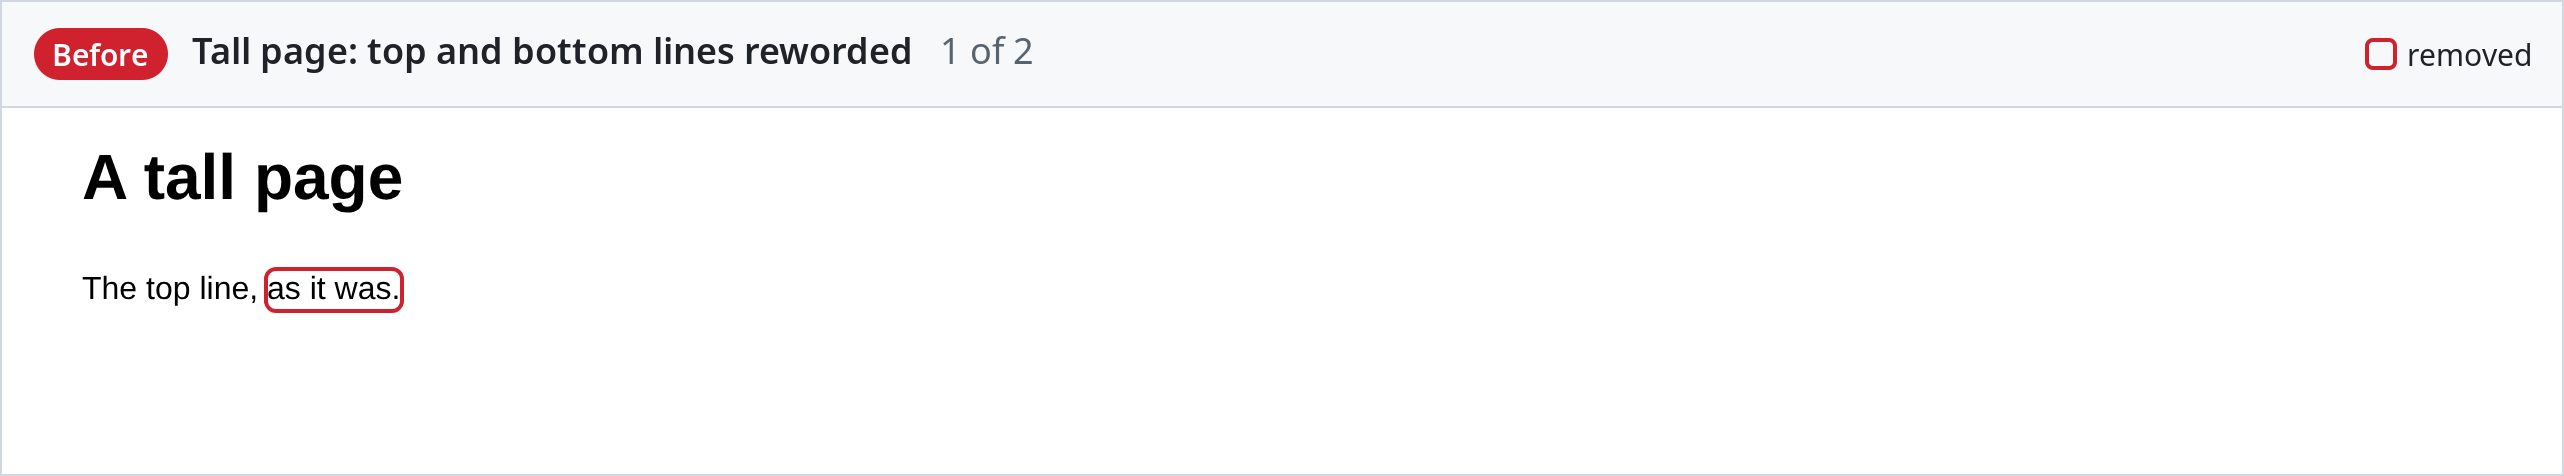
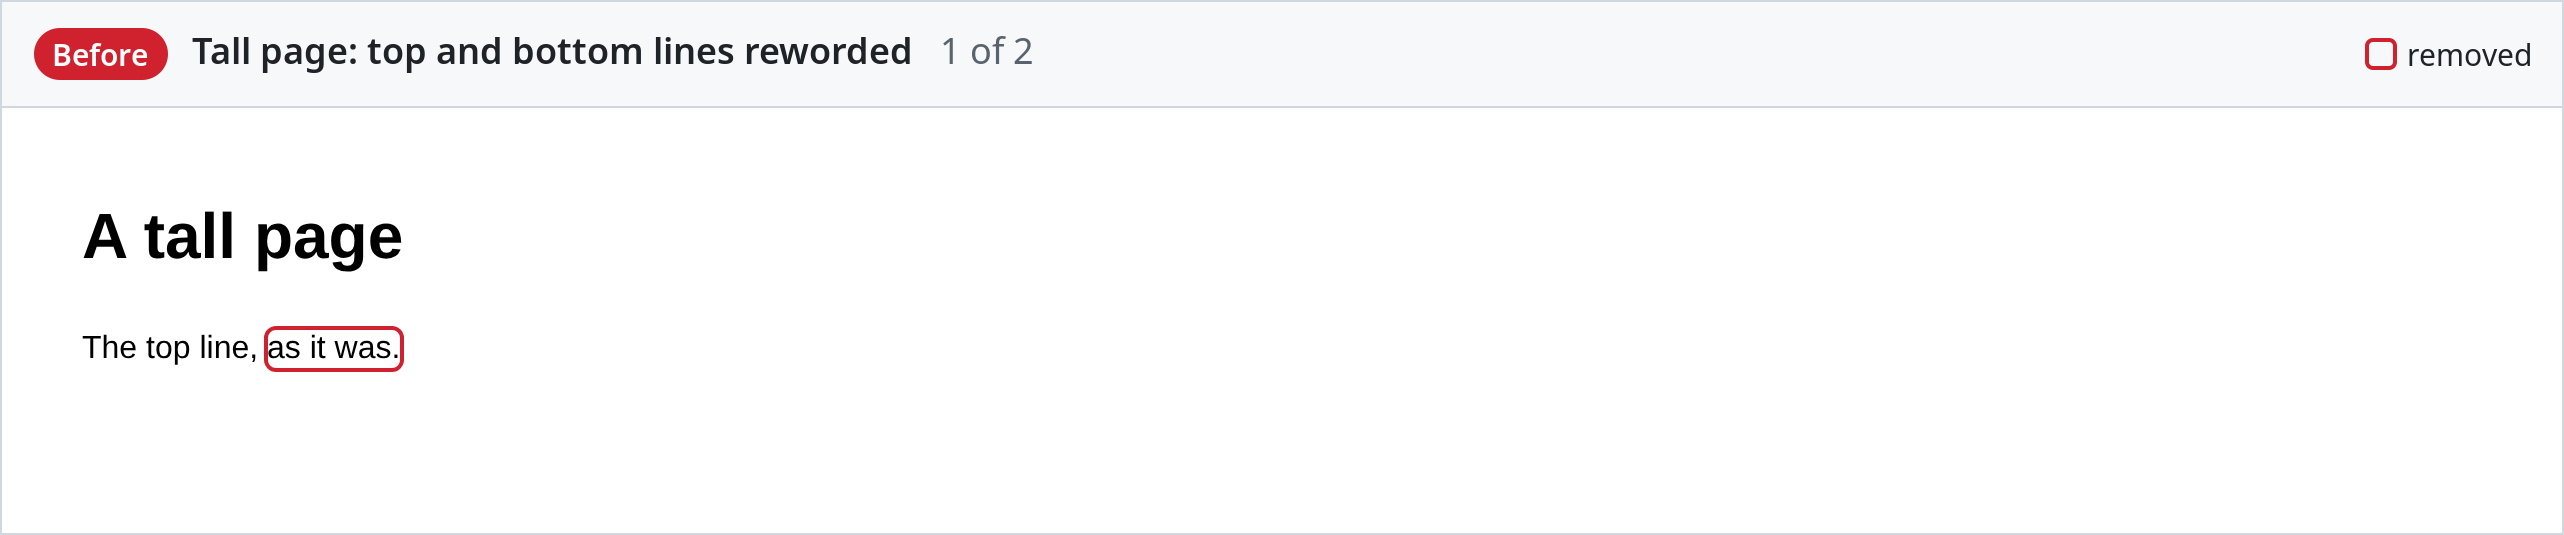
Take in the heading of what a change is in
A shot was cut 80px around a change, which could leave out the title
of the card it was in: the red box sat in a card nobody could name. The
page now says, for each change, the heading of what it is in: from its
element up, the nearest heading among the elements before it, as a
card's title or a list's heading, not the title of a card beside it.
The shot takes it in when it is less than a window high above the
change and the shot still fits, once its edges are moved off the lines
of text; otherwise it is cut around the change as before. The page's
banner names the site, not a part of the page, and a heading above
--selector's element is none.

diff --git a/src/shots/plan.ts b/src/shots/plan.ts
@@ -61,9 +61,22 @@ export async function plan(
       after: { top: regions.after.top, bottom: regions.after.bottom },
     });
   for (const group of groups) {
+    const pad = (region: Region | null) => region && padded(region, options.padding);
+    const grown = { before: pad(group.before), after: pad(group.after) };
+    let edges = await bothSides(side => snapped(grown[side], pages[side]));
+    // Headings grow a shot up to the maximum height; snap can still push it past, and the cut would
+    // fall on the changes. The shot is then the one around the changes alone.
+    if (SIDES.some(side => edges[side] && height(edges[side]!) > options.maxHeight)) {
+      const bare = (side: Side) =>
+        group.changes.length
+          ? group.changes.reduce<Region | null>((region, i) => extend(region, kept[i][side]), null)
+          : group[side];
+      edges = await bothSides(side => snapped(pad(bare(side)), pages[side]));
+    }
     const shot = {
       changes: group.changes,
-      ...(await bothSides(side => clip(group[side], pages[side], options))),
+      before: boxOf(edges.before, pages.before, options),
+      after: boxOf(edges.after, pages.after, options),
     };
     for (const side of SIDES)
       leftOut[side].push(...group.changes.filter(i => isOutside(kept[i][side], shot[side])));
@@ -106,7 +119,9 @@ function cut(span: Span | null, region: Region): Span | null {
   if (!span || (has(span) && !span.inside)) return null;
   const top = Math.max(span.top, region.top);
   const bottom = Math.min(span.bottom, region.bottom);
-  return top < bottom ? { ...span, top, bottom } : null;
+  // A heading above the element is not in it: it says nothing of where in the element the change is.
+  const heading = span.heading !== undefined && span.heading >= region.top ? span.heading : undefined;
+  return top < bottom ? { ...span, top, bottom, heading } : null;
 }
 
 /** Whether a page has the change itself, shown or cut off, not only the unchanged words around it. */
@@ -120,12 +135,13 @@ type Group = { changes: number[] } & Record<Side, Region | null>;
 function byDistance(order: number[], places: Place[], options: PlanOptions): Group[] {
   const fits = (region: Region | null) =>
     !region || height(padded(region, options.padding)) <= options.maxHeight;
+  const place = (i: number, side: Side) => headed(places[i][side], options);
   const groups: Group[] = [];
   for (const i of order) {
     const last = groups.at(-1);
     if (last) {
-      const before = extend(last.before, places[i].before);
-      const after = extend(last.after, places[i].after);
+      const before = extend(last.before, place(i, 'before'));
+      const after = extend(last.after, place(i, 'after'));
       if (fits(before) && fits(after)) {
         Object.assign(last, { before, after, changes: [...last.changes, i] });
         continue;
@@ -133,18 +149,32 @@ function byDistance(order: number[], places: Place[], options: PlanOptions): Gro
     }
     groups.push({
       changes: [i],
-      before: extend(null, places[i].before),
-      after: extend(null, places[i].after),
+      before: extend(null, place(i, 'before')),
+      after: extend(null, place(i, 'after')),
     });
   }
   return groups.length ? groups : [{ changes: [], before: null, after: null }];
 }
 
-/** The part of a page a shot shows around `region`: padded, its edges off any line of text, cut to
- * the maximum height. With no region, the top of the page, the viewport high. */
-async function clip(region: Region | null, page: PlanPage, options: PlanOptions): Promise<Box> {
-  if (!region) return { x: 0, y: 0, width: page.width, height: options.height };
-  const { top, bottom } = await page.snap(padded(region, options.padding));
+/** A change's place, taking in the heading of what it is in when that is less than a window high
+ * above it, and the shot still fits under the maximum height: a card's title, a section's heading,
+ * say where the change is. */
+function headed(span: Span | null, options: PlanOptions): Span | null {
+  if (span?.heading === undefined || span.heading >= span.top) return span;
+  const near = span.top - span.heading <= options.height;
+  const fits =
+    height(padded({ top: span.heading, bottom: span.bottom }, options.padding)) <= options.maxHeight;
+  return near && fits ? { ...span, top: span.heading } : span;
+}
+
+/** `region`, already padded, with its edges off any line of text; none with none. */
+const snapped = async (region: Region | null, page: PlanPage) => region && page.snap(region);
+
+/** The part of a page a shot shows: `edges`, cut to the maximum height. With none, the top of the
+ * page, the viewport high. */
+function boxOf(edges: Region | null, page: PlanPage, options: PlanOptions): Box {
+  if (!edges) return { x: 0, y: 0, width: page.width, height: options.height };
+  const { top, bottom } = edges;
   return { x: 0, y: top, width: page.width, height: Math.max(1, Math.min(bottom - top, options.maxHeight)) };
 }
 

diff --git a/src/page/runtime.ts b/src/page/runtime.ts
@@ -783,6 +783,45 @@ export function runtime(properties: string[], ignore: string[] = [], showIgnored
     return { top: y, bottom: y, changed: null, inside: true, clipped: false };
   };
 
+  /** What a heading is: a heading element, or one that says it is. */
+  const HEADINGS = 'h1, h2, h3, h4, h5, h6, [role="heading"]';
+
+  /** The heading an element before a change's own gives it: a heading itself, a header or a group
+   * of headings with one in it, or an element around a heading and nothing more, as a title's box.
+   * The page's banner, a header right in the body, names the site, not what a change is in. */
+  const headingIn = (element: Element): Element | null => {
+    if (element.matches(HEADINGS)) return element;
+    const inner = element.querySelector(HEADINGS);
+    if (!inner) return null;
+    if (element.matches('header, hgroup') && element.parentElement !== document.body) return inner;
+    return element.textContent?.trim() === inner.textContent?.trim() ? inner : null;
+  };
+
+  /** The top of the heading of what `node` is in, in page pixels: from its element up to the body,
+   * the nearest heading that shows among the elements before it, a card's title, a section's
+   * heading; or the heading `node` is in, which says itself where it is. None with no heading before
+   * it. The elements before it are its own, not inside one beside it: a card's neighbour has a title
+   * of its own, which does not name this one. */
+  const headingAbove = (node: Node): number | undefined => {
+    const topOf = (element: Element) => {
+      const rect = element.getBoundingClientRect();
+      return rect.height ? rect.top + window.scrollY : undefined;
+    };
+    for (
+      let element = node instanceof Element ? node : shownIn(node);
+      element && element !== document.body;
+      element = shownIn(element)
+    ) {
+      if (element.matches(HEADINGS)) return topOf(element);
+      for (let before = element.previousElementSibling; before; before = before.previousElementSibling) {
+        const heading = headingIn(before);
+        const top = heading && topOf(heading);
+        if (top !== undefined && top !== null) return top;
+      }
+    }
+    return undefined;
+  };
+
   /** Where each line of each token is on the page. */
   const textLines = (tokens: Token[]): Region[] =>
     tokens.flatMap(token =>
@@ -837,7 +876,11 @@ export function runtime(properties: string[], ignore: string[] = [], showIgnored
         const nodes = change.changed
           .map(t => tokens[t])
           .map(token => ('image' in token ? token.image : token.node));
-        return span && { ...span, inside: inside(nodes) };
+        // Where the change is, or with none of it on this page, the nearest unchanged word before it.
+        const at = change.changed[0] ?? change.anchors[0];
+        const token: Token | undefined = tokens[at];
+        const node = token && ('image' in token ? token.image : token.node);
+        return span && { ...span, inside: inside(nodes), heading: node && headingAbove(node) };
       });
       // What a label should not hide: the page's words and images, and the labels placed before it;
       // and, less, the lines of every box: the words', the looks', and the areas left out.
@@ -859,7 +902,11 @@ export function runtime(properties: string[], ignore: string[] = [], showIgnored
             ? boxLook(look.badge, element, layer, marks.color, drawn, avoid)
             : placeAt(element, look.edge ?? 'top', look.beside);
         undo.looks.push(removing(drawn));
-        return { ...span, inside: inside(element ? [element] : []) };
+        return {
+          ...span,
+          inside: inside(element ? [element] : []),
+          heading: element && headingAbove(element),
+        };
       });
       if (showIgnored) drawIgnored(under, avoid);
       return { words, looks };

diff --git a/src/page/runtime.browser.test.ts b/src/page/runtime.browser.test.ts
@@ -420,6 +420,56 @@ describe('mark, a change of look this page has not', () => {
   });
 });
 
+describe('mark, the heading of what a change is in', () => {
+  const cards =
+    '<p>intro</p><div style="display:flex;gap:20px">' +
+    '<article><h3 style="margin:0">Refinement</h3><p>aa</p></article>' +
+    '<article><h3 style="margin:0">Tickets</h3><p>bb</p><div style="height:300px"></div>' +
+    '<div><p>Tickets with edges. cc dd</p><hr></div></article></div>';
+  const headingTop = (text: string) =>
+    [...document.querySelectorAll('h3')].find(h => h.textContent === text)!.getBoundingClientRect().top;
+
+  test("is said for a word change: the card's title, however far above it", () => {
+    const p = page(cards);
+    const { words } = p.mark(marks({ words: [{ changed: [8, 9], anchors: [5, 6, 7] }] }));
+    expect(words[0]!.heading).toBe(headingTop('Tickets'));
+  });
+
+  test('is said for a change of look, and for the place of an element the page has not', () => {
+    const p = page(cards);
+    const hr = p.reading.elements.findIndex(e => e.tag === 'hr');
+    const { looks } = p.mark(
+      marks({
+        looks: [
+          { index: hr, badge: { plain: true } },
+          { index: hr, badge: null, edge: 'top' },
+        ],
+      }),
+    );
+    expect(looks.map(look => look.heading)).toEqual([headingTop('Tickets'), headingTop('Tickets')]);
+  });
+
+  test('is none for a change with no heading before it in what it is in, nor the page banner', () => {
+    const p = page('<header><nav>menu</nav><h1>Acme</h1></header><main><p>aa bb</p></main>');
+    const { words } = p.mark(marks({ words: [{ changed: [3], anchors: [2] }] }));
+    expect(words[0]!.heading).toBeUndefined();
+  });
+
+  test('is the heading itself for a change in one, or with none on this page, for an unchanged word in one', () => {
+    const p = page('<p>intro</p><h3>Tickets</h3><p>aa bb</p>');
+    const { words } = p.mark(
+      marks({
+        words: [
+          { changed: [1], anchors: [0] },
+          { changed: [], anchors: [1, 2] },
+        ],
+      }),
+    );
+    const top = document.querySelector('h3')!.getBoundingClientRect().top;
+    expect(words.map(word => word!.heading)).toEqual([top, top]);
+  });
+});
+
 describe('mark, at the page edges', () => {
   test('keeps the box of an element as wide as the page inside it, its ring too', () => {
     const p = page('<p>aa</p><div style="height:40px;margin:0">x</div>');

diff --git a/src/shots/plan.test.ts b/src/shots/plan.test.ts
@@ -90,6 +90,37 @@ describe('plan', () => {
   });
 });
 
+describe('the heading of what a change is in', () => {
+  test('is taken in when it is less than a window high above the change', async () => {
+    const p = await plan([both({ ...at(1000), heading: 600 })], OPTIONS, pages());
+    expect(p.shots[0].before).toEqual({ x: 0, y: 520, width: 1000, height: 580 });
+  });
+
+  test('is left out when taking it in would cut the change from its shot, once snap has moved the edges', async () => {
+    // Padded, heading to change is 590px, under the maximum; snap raises the top by 100px.
+    const p = await plan(
+      [both({ ...at(1000, 1040), heading: 610 })],
+      { ...OPTIONS, maxHeight: 600 },
+      pages(fakePage(r => ({ top: r.top - 100, bottom: r.bottom + 6 }))),
+    );
+    expect(p.leftOut).toEqual({ before: [], after: [] });
+  });
+
+  test('--selector: one above the element is none, not a heading at its top', async () => {
+    const options = { ...OPTIONS, selector: '#main' };
+    const page = fakePage(undefined, { '#main': el(600, 3000) });
+    const p = await plan([both({ ...at(1100), heading: 100 })], options, pages(page));
+    expect(p.shots[0].before.y).toBe(1020);
+  });
+
+  test('is left out when it is further above, or would make the shot taller than the maximum', async () => {
+    const far = await plan([both({ ...at(1000), heading: 50 })], OPTIONS, pages());
+    expect(far.shots[0].before.y).toBe(920);
+    const tall = await plan([both({ ...at(1000), heading: 700 })], { ...OPTIONS, maxHeight: 400 }, pages());
+    expect(tall.shots[0].before.y).toBe(920);
+  });
+});
+
 describe('what is left out', () => {
   test('a change taller than the maximum is cut, and said to be left out', async () => {
     const p = await plan([both(at(100, 3000))], OPTIONS, pages());

diff --git a/src/geometry.ts b/src/geometry.ts
@@ -10,5 +10,13 @@ export type Region = { top: number; bottom: number };
  * null when this page has nothing of a word change, or when the change is `clipped`: on the page,
  * but where a scroll area or another clipping element shows none of it, so no box is drawn. `inside`
  * says whether the change is inside the marks' `within` element: always, with none. A component
- * (`byTop`) is shown by its top, so a shot that cuts off its bottom still shows it. */
-export type Span = Region & { changed: Region | null; inside: boolean; clipped: boolean; byTop?: boolean };
+ * (`byTop`) is shown by its top, so a shot that cuts off its bottom still shows it. `heading` is the
+ * top of the heading of what the change is in, a card's title, a section's heading, when there is
+ * one before it: what a shot takes in, where it can, to say where the change is. */
+export type Span = Region & {
+  changed: Region | null;
+  inside: boolean;
+  clipped: boolean;
+  byTop?: boolean;
+  heading?: number;
+};

diff --git a/README.md b/README.md
@@ -258,7 +258,8 @@ opens. To get the Linux one anyway, name it: `--chrome /usr/bin/google-chrome`.
    colour says it, red on the before shot, green on the after. On the page without it, the shot
    takes in whole the element next to where it would be.
 5. It shoots the area around the changes, unchanged words next to each change included, so both
-   shots show the same place even when one side of a change is empty. With `--selector`, it first
+   shots show the same place even when one side of a change is empty, and the heading of what a
+   change is in (a card's title, a section's heading) when it is less than a window high above it. With `--selector`, it first
    drops the changes outside the element's tree, and takes their marks off. A box goes around what
    a scroll area shows of a change; a change it shows none of gets no box and is listed instead.
    Changes far apart are shot apart, and an edge of a shot never cuts a line of text in half: it
